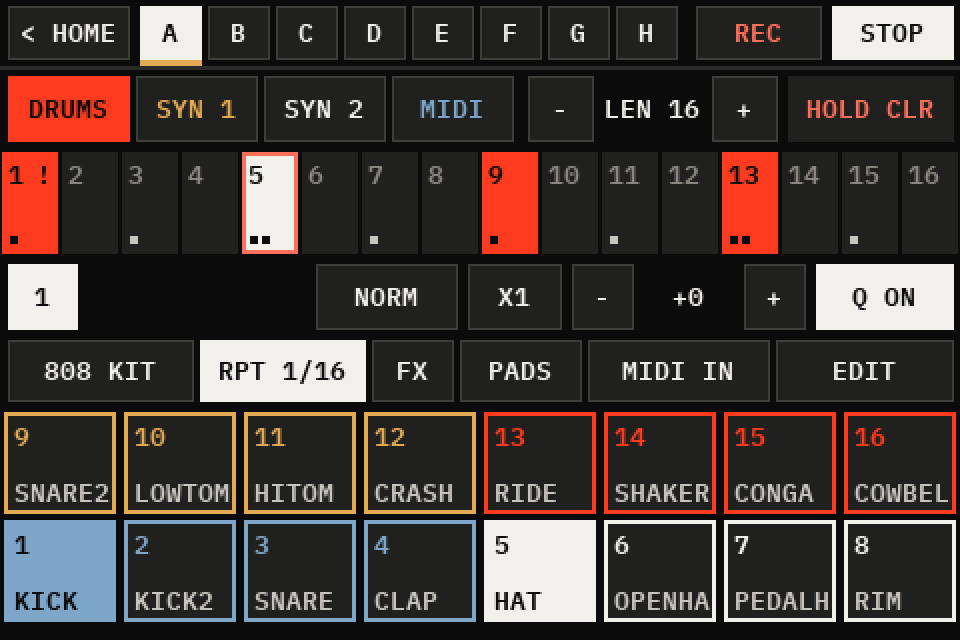
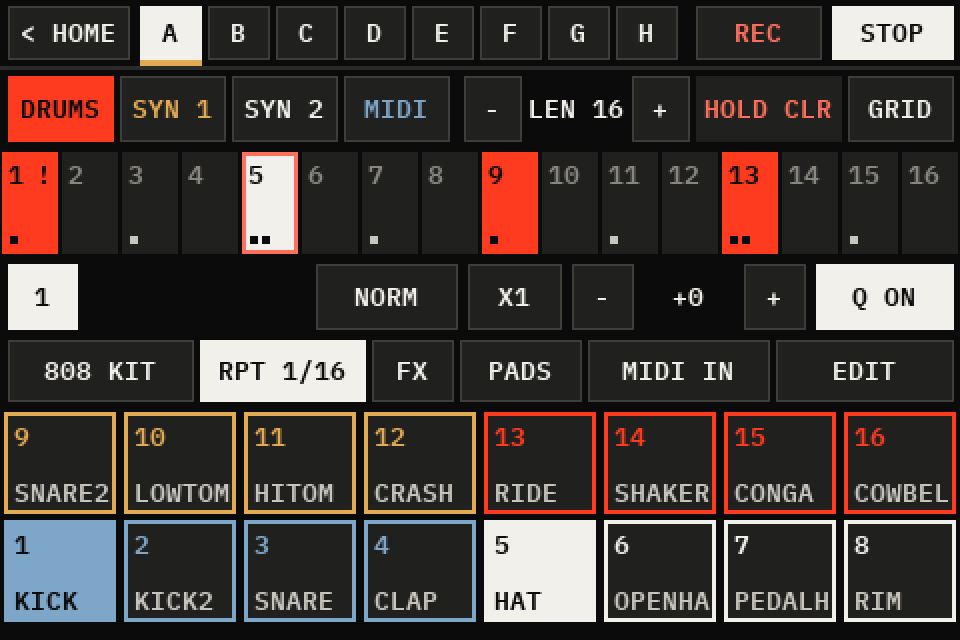
XO-4's GRID on the Studio: the whole pattern at once, as on XO-4 Pocket
- deskxo4.py: GRID in XO-4's track row (the tracks a little narrower, LEN
  and HOLD CLR moved left). A row a sound (DRUMS: pads 1-8 or 9-16) or a
  note of the scale (SYN 1, SYN 2, MIDI: OCT - / + moves it), 16 steps
  across in 26 px cells, P 1/2 ... for a longer track, every four steps
  shaded, the playhead column lit, ghost and soft hits dimmer. A tap puts
  the row's sound or note on the step or takes it off (four notes a step at
  most); held, the step is emptied. The bottom line: the step last tapped.
- tests/test_desk.py: test_xo4_grid.
- tools/studio_screens.py: the GRID's pictures; docs/images: them, and XO-4's
  DRUMS and SYN 1 pictures redrawn with GRID in the track row.
- README: the XO-4 tab, Screens, Tested.

Credits and licences: the grid view follows XO-4 Pocket's screen (this
repository's RG35XX port, on the feat/xo4-rg35xx branch); nothing new
copied in. XOXO Studio stays GPL-3.0.

Tested: on XOXOStudio (Pi 3 B+, Hosyond 3.5", xoxo35), 2026-11-02: GRID used
by finger, "works well" (Pat's report); the screen grabbed on the Pi
matched the PC's drawing. PC: test_desk 54/54 (with test_xo4_grid).

Not tested: a track longer than 16 steps in GRID on the Studio; GRID while
live REC records; MIDI's grid with real gear.

Changed region(s): [[0.0, 0.125, 0.5, 0.2188], [0.5312, 0.125, 1.0, 0.2188], [0.6875, 0.0938, 0.7188, 0.125]]

diff --git a/fm1-bt-bridge/deskxo4.py b/fm1-bt-bridge/deskxo4.py
@@ -23,6 +23,11 @@ the decks are: the step grid and the keys need the height the tab bar takes.
               or takes it off (four at most: a chord); stopped, it sounds. SYN 1 and SYN 2: SOUND opens the synth's
               page (below)
 
+GRID (beside HOLD CLR) shows the whole pattern as XO-4 Pocket does: a row a sound (DRUMS: the pads, 1-8 or 9-16) or
+a note of the scale (the rest: OCT - / + moves it), 16 steps across (P 1/2 ... for a longer track), the playhead lit.
+A tap puts the row's sound or note on the step or takes it off (four notes a step at most); held, the step is
+emptied. The line at the bottom says what's on the step last tapped.
+
 The SOUND page (a synth track's): < XO-4 back, HEAR (its last notes), six starting sounds (KEYS, BASS, BELL,
 PLUCK, PAD, LEAD), and the patch's settings, each - / + (held: four steps): RATIO, BRIGHT (the modulation
 index), BR DECAY and BR HOLD (how the brightness falls, and what stays), ATTACK, DECAY, SUSTAIN, RELEASE, LEVEL.
@@ -36,6 +41,8 @@ TRACK_LABELS = ("DRUMS", "SYN 1", "SYN 2", "MIDI")
 OCTAVES = (4, 4, 2, 3)                          # the note keys' octave a track starts on (SYN 2: a bass)
 KEYS = 14                                       # note keys: two rows of seven
 RED = (255, 112, 92)
+ROWS = 8                                        # GRID: the rows shown, each a pad or a note
+GRID_TOP, ROW_H, LABEL_W, CELL_W = HDR_H + 58, 26, 64, 26   # (the step numbers above the rows)
 
 
 class DeskXO4:
@@ -50,6 +57,8 @@ class DeskXO4:
         self.xo4_rev = 0                         # bumped with each change: what's drawn follows
         self.xo4_sound = False                   # the SOUND page (SYN 1, SYN 2) open
         self.xo4_rec = False                     # live REC
+        self.xo4_grid = False                    # GRID: the whole pattern, a row a pad or a note
+        self.xo4_half = 0                        # GRID, DRUMS: pads 1-8 (0) or 9-16 (1)
 
     # ---- the song
 
@@ -68,7 +77,8 @@ class DeskXO4:
         x = getattr(a, "xo4", None)
         return (self.xo4_rev, getattr(a, "song_rev", 0), self.xo4_track, self.xo4_edit, self.xo4_step,
                 self.xo4_page, self.xo4_pad, tuple(self.xo4_oct), a.seq_playing(), x and x.step, x and x.pattern, x and x.queued, a.clock_text(),
-                self.xo4_sound, self.xo4_rec, self.pads_view() if self.xo4_track == 0 or self.fx_open else None)
+                self.xo4_sound, self.xo4_rec, self.xo4_grid, self.xo4_half,
+                self.pads_view() if self.xo4_track == 0 or self.fx_open else None)
 
     # ---- drawing
 
@@ -99,16 +109,20 @@ class DeskXO4:
         self.button(img, d, (W - 64, 3, W - 4, HDR_H - 5), "STOP" if playing else "PLAY", a.seq_play, on=playing,
                     key="xo4-play")
         d.line((0, HDR_H - 1, W, HDR_H - 1), fill=t.c[0], width=2)
-        y = HDR_H + 4                           # the tracks, the length, clear
+        y = HDR_H + 4                           # the tracks, the length, clear, GRID
         for k, label in enumerate(TRACK_LABELS):
-            self.button(img, d, (4 + k * 64, y, 64 + k * 64, y + 32), label, lambda k=k: self.xo4_pick_track(k),
+            self.button(img, d, (4 + k * 56, y, 56 + k * 56, y + 32), label, lambda k=k: self.xo4_pick_track(k),
                         color=t.track[k], on=k == self.xo4_track, key=("xo4-track", k))
-        self.button(img, d, (264, y, 296, y + 32), "-", lambda: self.xo4_length(-1), key="xo4-len-")
-        self.centre(img, (296, y, 356, y + 32), f"LEN {track['len']}", t.hi)
-        self.button(img, d, (356, y, 388, y + 32), "+", lambda: self.xo4_length(1), key="xo4-len+")
-        self.widget((394, y, W - 4, y + 32), "hold", self.xo4_clear, "xo4-clear")
-        d.rectangle((394, y, W - 4, y + 32), fill=t.hi if self.lit("xo4-clear") else t.grey[0])
-        self.centre(img, (394, y, W - 4, y + 32), "HOLD CLR", t.bg if self.lit("xo4-clear") else RED)
+        self.button(img, d, (W - 56, y, W - 4, y + 32), "GRID", self.xo4_toggle_grid, on=self.xo4_grid,
+                    key="xo4-grid")
+        if self.xo4_grid:
+            return self.draw_xo4_grid(img, d, song, track, x, playing, name)
+        self.button(img, d, (232, y, 260, y + 32), "-", lambda: self.xo4_length(-1), key="xo4-len-")
+        self.centre(img, (260, y, 316, y + 32), f"LEN {track['len']}", t.hi)
+        self.button(img, d, (316, y, 344, y + 32), "+", lambda: self.xo4_length(1), key="xo4-len+")
+        self.widget((348, y, W - 60, y + 32), "hold", self.xo4_clear, "xo4-clear")
+        d.rectangle((348, y, W - 60, y + 32), fill=t.hi if self.lit("xo4-clear") else t.grey[0])
+        self.centre(img, (348, y, W - 60, y + 32), "HOLD CLR", t.bg if self.lit("xo4-clear") else RED)
         self.draw_xo4_steps(img, d, song, name, track, x, playing)
         if self.xo4_track == xo4.DRUMS:
             self.draw_xo4_pads(img, d)
@@ -175,6 +189,90 @@ class DeskXO4:
             st.text(img, (164, y + 9), "TAP A STEP, THEN KEYS FOR ITS NOTES", t.c[2])
         else:
             self.draw_xo4_hit(img, d, song, track, y)
+
+    def xo4_grid_rows(self, song):
+        """GRID's rows, top to bottom: [(label, pad or note, colour)]"""
+        import xo4
+        from pathlib import Path
+        t = self.theme
+        if self.xo4_track == xo4.DRUMS:
+            kit = self.app.kit()
+            rows = []
+            for i in range(self.xo4_half * 8, self.xo4_half * 8 + 8):
+                sample = kit["pads"][i]["sample"]
+                label = Path(sample).stem.replace("808-", "").replace("-", "")[:7] if sample else f"PAD {i + 1}"
+                rows.append((label, i, t.track[(3 - i // 4) % 4]))
+            return rows
+        low = (self.xo4_oct[self.xo4_track] + 1) * 12 + song["root"]
+        return [(xo4.note_name(n), n, t.track[self.xo4_track]) for n in reversed(xo4.scale_notes(song, low, ROWS))]
+
+    def draw_xo4_grid(self, img, d, song, track, x, playing, name):
+        """GRID: the pattern's track as rows (pads or notes) by 16 steps, a tap a cell"""
+        import xo4
+        t = self.theme
+        y = HDR_H + 4
+        if self.xo4_track == xo4.DRUMS:         # which rows: pads 1-8 or 9-16; the notes an octave at a time
+            for h, label in enumerate(("1-8", "9-16")):
+                self.button(img, d, (232 + h * 52, y, 280 + h * 52, y + 32), label,
+                            lambda h=h: self.xo4_grid_half(h), on=h == self.xo4_half, key=("xo4-half", h))
+        else:
+            self.button(img, d, (232, y, 260, y + 32), "-", lambda: self.xo4_octave(-1), key="xo4-oct-")
+            self.centre(img, (260, y, 316, y + 32), f"OCT {self.xo4_oct[self.xo4_track]}", t.hi)
+            self.button(img, d, (316, y, 344, y + 32), "+", lambda: self.xo4_octave(1), key="xo4-oct+")
+        pages = (track["len"] + 15) // 16
+        self.xo4_page = min(self.xo4_page, pages - 1)
+        if pages > 1:
+            self.button(img, d, (348, y, W - 60, y + 32), f"P {self.xo4_page + 1}/{pages}",
+                        lambda: self.xo4_go_page((self.xo4_page + 1) % pages), key="xo4-grid-page")
+        here = None
+        if x and playing and x.step is not None and (x.pattern or song["pattern"]) == name:
+            here = x.step % track["len"]
+        for k in range(16):                     # the step numbers, the beats' first brighter
+            idx = self.xo4_page * 16 + k
+            if idx < track["len"]:
+                st.text(img, (LABEL_W + k * CELL_W + (9 if idx < 9 else 5), GRID_TOP - 18), str(idx + 1),
+                        t.hi if idx == here else t.c[3] if k % 4 == 0 else t.c[1])
+        drums = self.xo4_track == xo4.DRUMS
+        for r, (label, value, colour) in enumerate(self.xo4_grid_rows(song)):
+            top = GRID_TOP + r * ROW_H
+            picked = drums and value == self.xo4_pad
+            st.text(img, (4, top + 5), label, t.hi if picked else colour)
+            for k in range(16):
+                idx = self.xo4_page * 16 + k
+                box = (LABEL_W + k * CELL_W + 1, top + 1, LABEL_W + (k + 1) * CELL_W - 2, top + ROW_H - 2)
+                if idx >= track["len"]:
+                    d.rectangle(box, outline=t.c[0])
+                    continue
+                step = track["steps"][idx]
+                on = bool(step and value in step["notes"])
+                if on:
+                    fill = t.hi if idx == here else colour
+                    if drums:                   # a ghost or soft hit: dimmer
+                        level = (step.get("levels") or [0] * len(step["notes"]))[step["notes"].index(value)]
+                        fill = t.dim[0] if level in (1, 2) and idx != here else fill
+                else:
+                    fill = t.c[1] if idx == here else t.grey[1] if k // 4 % 2 == 0 else t.grey[0]
+                d.rectangle(box, fill=fill)
+                if idx == self.xo4_step and on:
+                    d.rectangle(box, outline=t.hi if idx != here else RED, width=2)
+                self.widget(box, "tap", lambda idx=idx, v=value: self.xo4_grid_tap(idx, v), ("xo4-cell", idx, value),
+                            lambda idx=idx: self.xo4_clear_step(idx))
+        st.text(img, (4, H - 17), self.xo4_grid_status(song, track), t.c[3])
+
+    def xo4_grid_status(self, song, track):
+        """GRID's bottom line: the step last tapped, or what a tap does"""
+        import xo4
+        step = track["steps"][self.xo4_step] if self.xo4_step is not None else None
+        if not step:
+            return "TAP: ON / OFF   HOLD: EMPTY THE STEP"
+        if self.xo4_track == xo4.DRUMS:
+            hit = self.xo4_hit_of(step)
+            if not hit:
+                return f"STEP {self.xo4_step + 1}"
+            return (f"STEP {self.xo4_step + 1}  PAD {self.xo4_pad + 1}  {xo4.LEVELS[hit[0]]}  X{hit[1]}  "
+                    f"NUDGE {step.get('nudge', 0):+d}")
+        notes = " ".join(xo4.note_name(n) for n in step["notes"])
+        return f"STEP {self.xo4_step + 1}  {notes}  VEL {step['vel']}  LEN {step['len']:g}"
 
     def xo4_hit_of(self, step):
         """(level, ratchet) of the pad picked on this drum step, or None"""
@@ -324,6 +422,41 @@ class DeskXO4:
         else:
             self.xo4_step = idx
             self.xo4_audition(step["notes"])
+        self.xo4_save(song)
+
+    def xo4_toggle_grid(self):
+        self.xo4_grid = not self.xo4_grid
+        self.xo4_rev += 1
+
+    def xo4_grid_half(self, h):
+        self.xo4_half = h
+        self.xo4_rev += 1
+
+    def xo4_grid_tap(self, idx, value):
+        """a GRID cell: DRUMS, its pad on the step or off (and picked); the rest, its note on or off the step"""
+        if self.xo4_track == 0:
+            self.xo4_pad = value
+            return self.xo4_tap(idx)
+        song = self.xo4_song()
+        track = self.xo4_track_of(song)
+        step = track["steps"][idx]
+        if not step:
+            track["steps"][idx] = {"notes": [value], "vel": 100, "len": 1.0}
+            self.xo4_audition([value])
+        elif value in step["notes"]:
+            if len(step["notes"]) == 1:         # its last note: the step emptied
+                track["steps"][idx] = None
+                self.xo4_step = None if self.xo4_step == idx else self.xo4_step
+                return self.xo4_save(song)
+            step["notes"] = [n for n in step["notes"] if n != value]
+        elif len(step["notes"]) >= 4:
+            self.app.say("Four notes a step at most", 2)
+            return
+        else:
+            step["notes"] = sorted(step["notes"] + [value])
+            self.xo4_audition([value])
+        self.xo4_step = idx
+        self.xo4_brush[self.xo4_track] = list(track["steps"][idx]["notes"])
         self.xo4_save(song)
 
     def xo4_hit_change(self, change):

diff --git a/tests/test_desk.py b/tests/test_desk.py
@@ -1212,6 +1212,94 @@ def test_xo4_tab():
     assert ui.tab == "HOME"
 
 
+def test_xo4_grid():
+    """XO-4's GRID: a row a pad (1-8, 9-16) or a note of the scale, 16 steps across; a tap puts the row's pad or note
+    on the step or takes it off (four notes at most), a hold empties the step; a longer track's pages"""
+    import bridge
+    import deskui
+    import xo4
+
+    class XO4:
+        step = pattern = queued = None
+
+        def __init__(self):
+            self.sent = []
+
+        def send(self, *msg):
+            self.sent.append(msg)
+
+    class Pads:
+        sounding, step = [], None
+
+        def send(self, *msg):
+            pass
+
+    app = bridge.App(RgbCapture(), dict(bridge.DEFAULTS))
+    app.save_settings = lambda: None
+    app.xo4, app.pads = XO4(), Pads()
+    app.state["kit"] = {"name": "K", "pads": [{"sample": ""}] * 16}
+    ui = deskui.DeskUI(app, app.display)
+    ui.theme_check = 1e12
+
+    def press(key, hold=False):
+        ui.render(0.0, force=True)
+        box = next(w[0] for w in ui.widgets if w[3] == key)
+        ui.touch("down", box[0] + 4, box[1] + 4, 0.0)
+        if hold:
+            ui.touch("move", box[0] + 4, box[1] + 4, 0.7)
+        ui.touch("up", box[0] + 4, box[1] + 4, 0.7 if hold else 0.0)
+        ui.render(0.0, force=True)
+
+    def steps(track):
+        return app.song()["patterns"][app.song()["pattern"]][track]["steps"]
+
+    def cells():
+        return {w[3][1:] for w in ui.widgets if isinstance(w[3], tuple) and w[3][0] == "xo4-cell"}
+
+    press(("tab", "XO4"))
+    press("xo4-grid")
+    assert ui.xo4_grid and cells() == {(i, p) for i in range(16) for p in range(8)}      # DRUMS: pads 1-8
+    press(("xo4-cell", 0, 0))                                       # the kick on 1, the snare (pad 3) on 1 and 5
+    press(("xo4-cell", 0, 2))
+    press(("xo4-cell", 4, 2))
+    assert steps(0)[0]["notes"] == [0, 2] and steps(0)[4]["notes"] == [2] and ui.xo4_pad == 2
+    press(("xo4-cell", 0, 2))                                       # tapped again: off, the kick kept
+    assert steps(0)[0]["notes"] == [0]
+    press(("xo4-half", 1))
+    assert cells() == {(i, p) for i in range(16) for p in range(8, 16)}
+    press(("xo4-cell", 3, 12))
+    assert steps(0)[3]["notes"] == [12]
+    press(("xo4-cell", 3, 12), hold=True)                           # held: the step emptied
+    assert steps(0)[3] is None
+    press(("xo4-track", 1))                                         # SYN 1: the rows are notes, highest on top
+    rows = sorted({v for _, v in cells()}, reverse=True)
+    assert rows == list(reversed(xo4.scale_notes(app.song(), 5 * 12, 8)))   # C4 major, eight notes up
+    press(("xo4-cell", 2, 60))
+    press(("xo4-cell", 2, 64))
+    assert steps(1)[2]["notes"] == [60, 64] and ui.xo4_step == 2 and ("audition", 1, [64], 100) in app.xo4.sent
+    for n in (67, 71):
+        press(("xo4-cell", 2, n))
+    press(("xo4-cell", 2, 72))                                      # a fifth note: refused
+    assert steps(1)[2]["notes"] == [60, 64, 67, 71]
+    for n in (60, 64, 67, 71):                                      # each off: the last one empties the step
+        press(("xo4-cell", 2, n))
+    assert steps(1)[2] is None
+    press("xo4-oct-")
+    assert min(v for _, v in cells()) == 4 * 12
+    ui.xo4_grid = False                                             # the length in the steps view, then GRID again
+    press("xo4-len+")
+    press("xo4-grid")
+    assert ("xo4-cell", 16, 48) not in {w[3] for w in ui.widgets}
+    press("xo4-grid-page")
+    assert ui.xo4_page == 1 and {i for i, _ in cells()} == {16}     # page 2: step 17 only
+    app.xo4.step, app.xo4.pattern = 16, app.song()["pattern"]       # the playhead, drawn while playing
+    app.playing = True
+    app.state["clock_mode"] = "box"
+    ui.render(0.0, force=True)
+    press("xo4-grid")
+    assert not ui.xo4_grid and ("xo4-step", 16) in {w[3] for w in ui.widgets}
+
+
 def test_home_tempo():
     """HOME's tempo - / +: a tap is 1 BPM, a hold 10, within 30-300; following another clock, they leave it be"""
     import bridge

diff --git a/tools/studio_screens.py b/tools/studio_screens.py
@@ -186,6 +186,8 @@ def main():
         ("studio-mixer", lambda app, ui: ui.open_tab("MIX")),
         ("studio-xo4-drums", xo4_tab(0, xo4_step=4, xo4_pad=0)),
         ("studio-xo4-synth", xo4_tab(1, xo4_step=0)),
+        ("studio-xo4-grid", xo4_tab(0, xo4_grid=True, xo4_step=4, xo4_pad=0)),
+        ("studio-xo4-grid-synth", xo4_tab(2, xo4_grid=True, xo4_step=0)),
         ("studio-xo4-sound", xo4_tab(1, xo4_sound=True)),
         ("studio-xo4-pads", xo4_tab(0, mpc_open=True)),
         ("studio-xo4-fx", xo4_tab(1, fx_open=True, fx_dest="xo4", xo4_fx=[14, True])),

diff --git a/README.md b/README.md
@@ -79,7 +79,8 @@ The Studio's own groovebox, being built (`fm1-bt-bridge/xo4.py`, `xo4synth.py`, 
 - **Sound:** a source of its own, XO-4, in the mixer, the meters and recordings.
 - **The XO-4 tab:**
   - **Header:** < HOME, the patterns A–H, REC (live: pads played go onto DRUMS while it plays) and PLAY / STOP.
-  - **Track row:** the track, its length LEN − / +, and HOLD CLR.
+  - **Track row:** the track, its length LEN − / +, HOLD CLR, and GRID.
+  - **GRID:** the whole pattern at once, as on XO-4 Pocket: a row a sound (DRUMS: pads 1–8 or 9–16) or a note of the scale (SYN 1, SYN 2, MIDI: OCT − / + moves it), 16 steps across (P 1/2 … for a longer track), the playhead lit. A tap puts the row's sound or note on the step or takes it off; held, the step is emptied. The bottom line says what's on the step last tapped.
   - **Steps:** 16 a page.
   - **Step row:** the pages, then the selected step's VEL and LEN.
   - **DRUMS:**
@@ -111,6 +112,7 @@ Drawn on a PC by the Studio's own drawing code with a made-up studio (`python to
 | ![XO-4 sound](docs/images/studio-xo4-sound.png) **XO-4: SOUND** | ![XO-4 pads](docs/images/studio-xo4-pads.png) **XO-4: PADS** |
 | ![XO-4 FX](docs/images/studio-xo4-fx.png) **XO-4: synth FX** | ![DECKS](docs/images/studio-decks.png) **DECKS** |
 | ![EDITOR](docs/images/studio-editor.png) **EDITOR** | ![MIDI](docs/images/studio-midi.png) **MIDI** |
+| ![XO-4 grid](docs/images/studio-xo4-grid.png) **XO-4: GRID, DRUMS** | ![XO-4 grid synth](docs/images/studio-xo4-grid-synth.png) **XO-4: GRID, SYN 2** |
 | ![MORE](docs/images/studio-more.png) **MORE** | |
 
 ## Known limitations
@@ -142,6 +144,7 @@ Drawn on a PC by the Studio's own drawing code with a made-up studio (`python to
 - XO-4's FM synth: 8 voices (two tracks' 4-note chords) take 22% of one core, measured with the app running; it writes its demo WAV there (the demo not yet listened to)
 - XO-4's engine, with a demo pattern put in by hand and the box clock started from the web page: the XO-4 source and the pads (the 808 KIT, played by XO-4's drum track) both carry sound, measured by recording each source on the Pi (peaks 0.66 and 0.81); XO-4 takes about 30% of one core while it plays, the pads about 20%
 - the XO-4 tab, used by hand on the Studio's screen: works well (the user's report, 2026-10-28)
+- XO-4's GRID on the Studio's screen (2026-11-02): its cells hit by finger, "works well" (the user's report); the screen grabbed on the Pi showed it as drawn on the PC
 - "< HOME" at the top left of MIXER, SAMPLER, RECORD, MIDI and MORE looks right on the Studio's screen (the user's report)
 - SAMPLER and RECORD full screen (no tab bar) look right on the Studio's screen (the user's report)
 - HOME's tempo - / + beside the BPM work well on the Studio's screen (the user's report)
